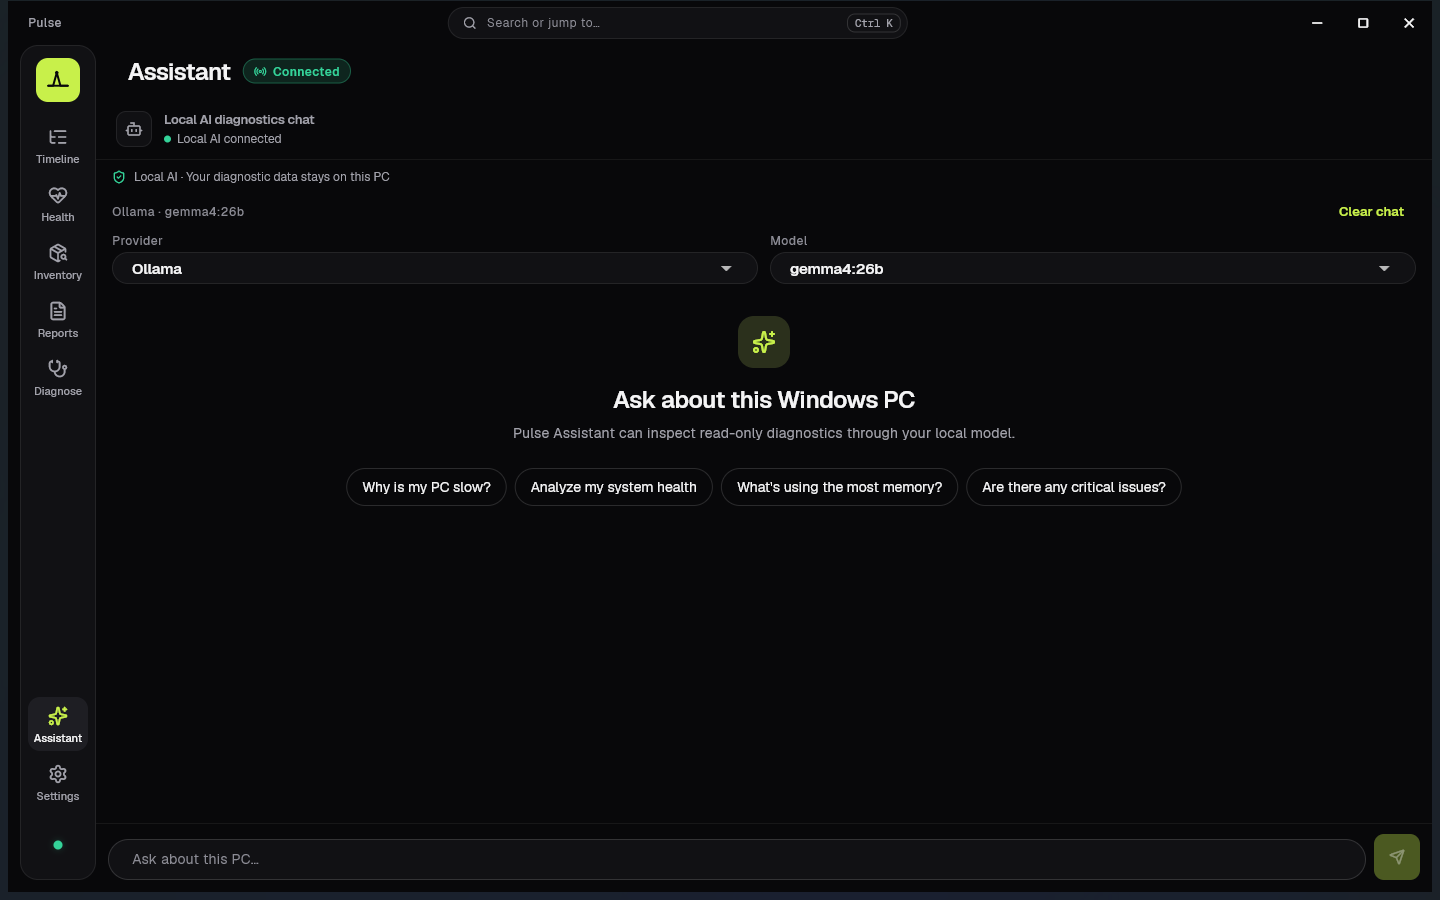
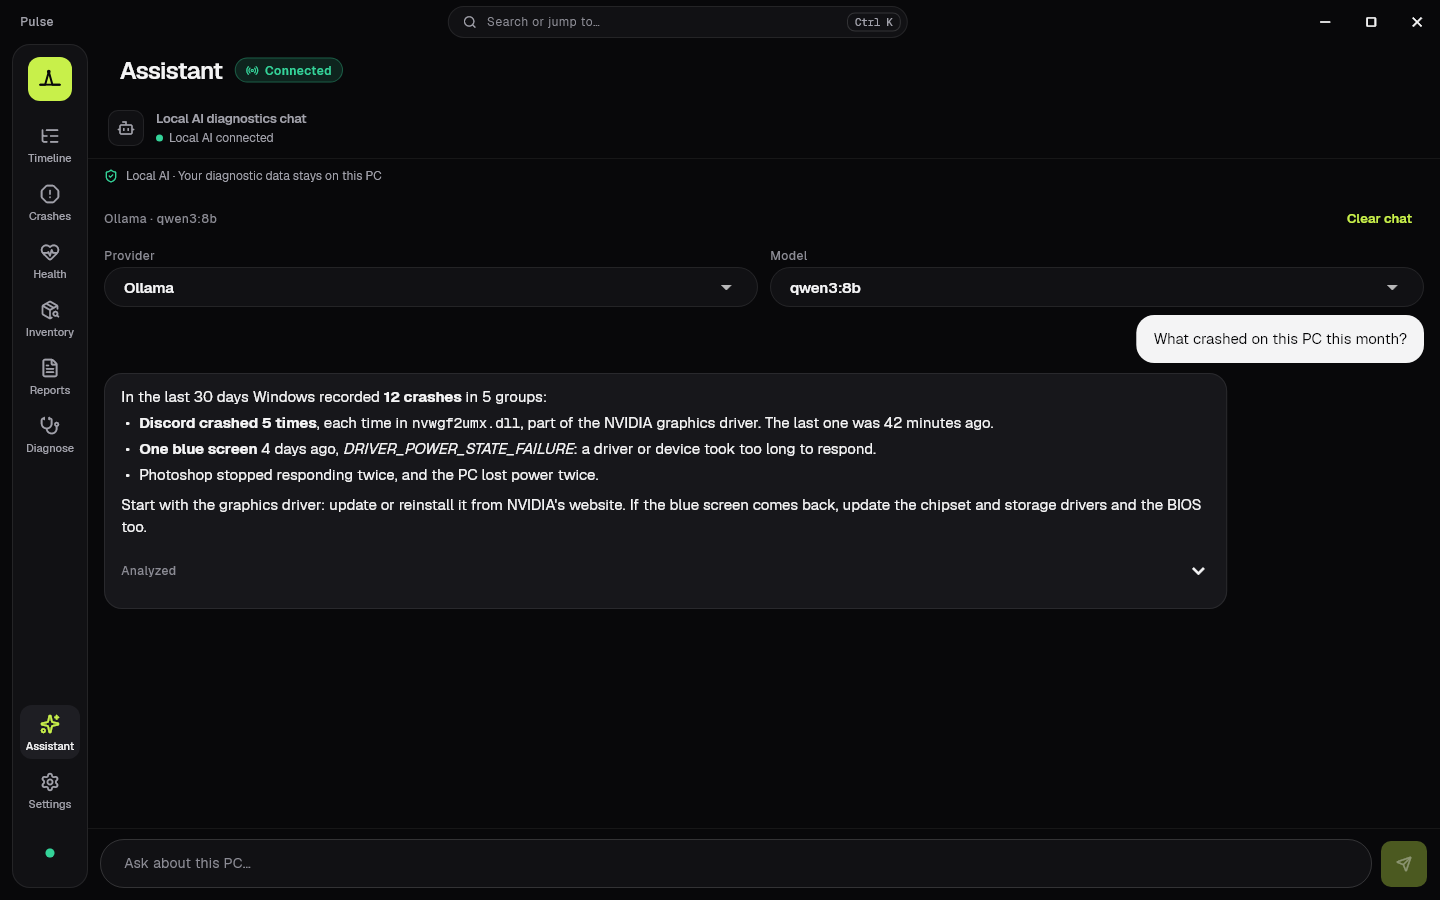
feat: Pulse 1.6 screenshots with sample data
The gallery shows Timeline, the new Crashes page, System Health, the
Assistant, Inventory and Reports from Pulse 1.6, rendered by the app
repository's screenshot tool with sample data instead of a real PC.
Diagnostics leaves the gallery to make room for Crashes.

diff --git a/src/lib/i18n.tsx b/src/lib/i18n.tsx
@@ -52,6 +52,7 @@ const en = {
     description:
       'Timeline, System Health, Inventory, Reports, Diagnostics, Settings — plus the built-in local AI Assistant.',
     timelineTitle: 'Timeline',
+    crashesTitle: 'Crashes',
     timelineDesc:
       'A plain-language summary of the last hour, a 24-hour activity strip, and a story feed — detail on demand.',
     healthTitle: 'System Health',
@@ -158,7 +159,7 @@ const en = {
     eyebrow: 'Interface',
     title: 'The real Pulse app',
     description:
-      'Timeline, Health, Inventory, Reports, Diagnostics, Settings, and Assistant — from the latest Windows build.',
+      'Timeline, Crashes, Health, Assistant, Inventory and Reports — Pulse 1.6 with sample data.',
   },
   download: {
     eyebrow: 'Download',
@@ -374,6 +375,7 @@ const tr: Dict = {
     description:
       'Timeline, Sistem Sağlığı, Envanter, Raporlar, Tanılama, Ayarlar — ve yerleşik yerel AI Assistant.',
     timelineTitle: 'Timeline',
+    crashesTitle: 'Çökmeler',
     timelineDesc:
       'Son bir saatin sade bir özeti, 24 saatlik etkinlik şeridi ve olay akışı — detay isteğe bağlı.',
     healthTitle: 'Sistem Sağlığı',
@@ -480,7 +482,7 @@ const tr: Dict = {
     eyebrow: 'Arayüz',
     title: 'Gerçek Pulse uygulaması',
     description:
-      'Timeline, Sağlık, Envanter, Raporlar, Tanılama, Ayarlar ve Assistant — en son Windows derlemesinden.',
+      'Timeline, Çökmeler, Sağlık, Asistan, Envanter ve Raporlar — Pulse 1.6, örnek verilerle.',
   },
   download: {
     eyebrow: 'İndir',

diff --git a/src/components/sections/Screens.tsx b/src/components/sections/Screens.tsx
@@ -6,17 +6,18 @@ import { Section } from '@/components/ui/Section'
 import { useLang } from '@/lib/i18n'
 import { cn } from '@/lib/cn'
 
-/** Captures from the Pulse 1.2 Windows app at 1440×900. */
+/** The Pulse app at 1440×900 with sample data, rendered by the app repository's
+ * screenshot tool (apps/pulse_app/test/screenshots). */
 const SHOT_WIDTH = 1440
 const SHOT_HEIGHT = 900
 
 const SHOTS = [
   { src: '/screens/timeline.png', key: 'timeline' as const, featured: true },
+  { src: '/screens/crashes.png', key: 'crashes' as const },
   { src: '/screens/health.png', key: 'health' as const },
   { src: '/screens/assistant.png', key: 'assistant' as const },
   { src: '/screens/inventory.png', key: 'inventory' as const },
   { src: '/screens/reports.png', key: 'reports' as const },
-  { src: '/screens/diagnostics.png', key: 'diagnostics' as const },
 ]
 
 export function Screens() {
@@ -25,11 +26,11 @@ export function Screens() {
 
   const captions = {
     timeline: t.productDemo.timelineTitle,
+    crashes: t.productDemo.crashesTitle,
     health: t.productDemo.healthTitle,
     assistant: t.productDemo.assistantTitle,
     inventory: t.productDemo.inventoryTitle,
     reports: t.productDemo.reportsTitle,
-    diagnostics: t.productDemo.diagnosticsTitle,
   }
 
   return (
